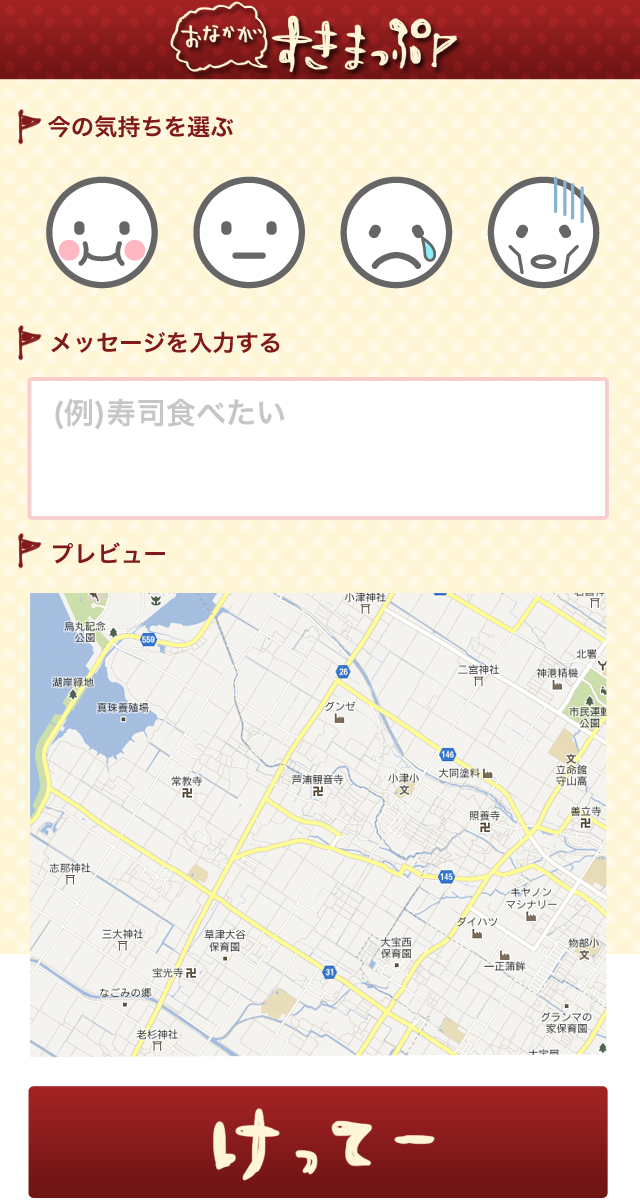
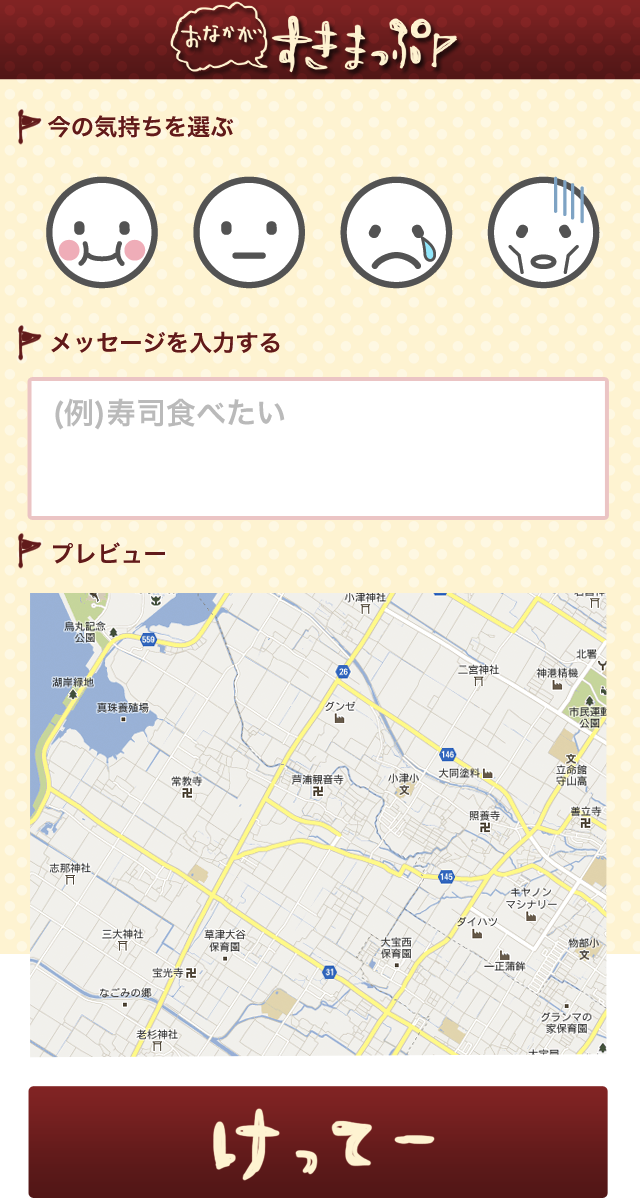
up

diff --git a/public/sukimap/css/common.less b/public/sukimap/css/common.less
@@ -2,14 +2,17 @@ html, body {
     height: 100%;
 }
 
-body {
-    font-family: sans-serif;
-    margin:0;
-    padding:0;
-}
-
 /* 共通 */
 body {
+    font-family: sans-serif;
+    font-size: 12px;
+    margin:0;
+    padding:0;
+
+    a, a:visited {
+        color: #800;
+    }
+
     #wrapper {
         background: url('/sukimap/image/background.png');
     }
@@ -23,13 +26,17 @@ body {
         }
     }
 
+    img[src*="iws3.png"] {
+        display: none;
+    }
+
     #main-content {
         padding: 5px;
     }
 
     #map-preview {
-        width: 100%;
-        height: 300px;
+        width: 310px;
+        height: 310px;
         background: #787878;
     }
 
@@ -44,12 +51,39 @@ body {
             color: #666;
         }
     }
+
+    .message {
+        margin-top: 20px;
+        margin-bottom: 5px;
+        img.flag {
+            margin-right: 4px;
+            width: 12px;
+            height: 18px;
+            vertical-align: middle;
+        }
+    }
+
+    .image-button {
+        background: transparent;
+        border: none;
+        cursor: pointer;
+    }
 }
 
 /* 各ページ */
 
+body#main {
+    img.start-button {
+        width: 290px;
+        height: 56px;
+    }
+}
+
 body#edit-page {
     .faces {
+        margin-left: 20px;
+        margin-bottom: 20px;
+
         img {
             width: 65px;
             height: 70px;
@@ -61,5 +95,21 @@ body#edit-page {
         input:checked+img {
             background: pink;
         }
+    }
+
+    .message-container {
+        margin-bottom: 20px;
+        textarea {
+            margin: 4px;
+            width: 290px;
+            border: 2px solid pink;
+            border-radius: 2px;
+            padding: 5px;
+        }
+    }
+
+    img.ok-button {
+        width: 290px;
+        height: 56px;
     }
 }

diff --git a/public/sukimap/edit/index.html b/public/sukimap/edit/index.html
@@ -51,8 +51,9 @@
 
 
         <form id="edit-form">
-          <div>
-            いまのおなかへり度に近い表情を教えてください
+          <div class="message">
+            <img class="flag" src="/sukimap/image/icon.png"/>
+            今の気持ちを選ぶ
           </div>
 
           <div class="faces">
@@ -75,25 +76,38 @@
             </label>
           </div>
 
-          <div>
-            おなかへりメッセージを入力してください
+          <div class="message">
+            <img class="flag" src="/sukimap/image/icon.png"/>
+            メッセージを入力する
           </div>
 
           <div class="message-container">
-            <textarea name="comment" placeholder="例：おなかすいた"></textarea>
+            <textarea name="comment" placeholder="例：寿司食べたい"></textarea>
+          </div>
+
+          <div class="message">
+            <img class="flag" src="/sukimap/image/icon.png"/>
+            プレビュー
           </div>
 
           <div id="map-preview"></div>
 
+          <div class="message">
+            <img class="flag" src="/sukimap/image/icon.png"/>
+            すきまっぷを保存します
+          </div>
+
           <div class="submit-container">
-            <input type="submit" value="決定"/>
+            <button class="image-button" type="submit"><img class="ok-button" src="/sukimap/image/button_ok.png"/></button>
           </div>
         </form>
 
       </div>
 
       <div class="footer">
-        <a href="/">(C) 2012 東ダンスネットワーク</a>
+        <div id="copyright">
+          <a href="/">(C) 2012 東ダンスネットワーク</a>
+        </div>
       </div>
 
     </div>

diff --git a/public/sukimap/css/common.css b/public/sukimap/css/common.css
@@ -2,12 +2,17 @@ html,
 body {
   height: 100%;
 }
+/* 共通 */
 body {
   font-family: sans-serif;
+  font-size: 12px;
   margin: 0;
   padding: 0;
 }
-/* 共通 */
+body a,
+body a:visited {
+  color: #800;
+}
 body #wrapper {
   background: url('/sukimap/image/background.png');
 }
@@ -19,12 +24,15 @@ body #title img {
   width: 148px;
   height: 40px;
 }
+body img[src*="iws3.png"] {
+  display: none;
+}
 body #main-content {
   padding: 5px;
 }
 body #map-preview {
-  width: 100%;
-  height: 300px;
+  width: 310px;
+  height: 310px;
   background: #787878;
 }
 body .footer {
@@ -37,7 +45,30 @@ body .footer #copyright {
   text-align: center;
   color: #666;
 }
+body .message {
+  margin-top: 20px;
+  margin-bottom: 5px;
+}
+body .message img.flag {
+  margin-right: 4px;
+  width: 12px;
+  height: 18px;
+  vertical-align: middle;
+}
+body .image-button {
+  background: transparent;
+  border: none;
+  cursor: pointer;
+}
 /* 各ページ */
+body#main img.start-button {
+  width: 290px;
+  height: 56px;
+}
+body#edit-page .faces {
+  margin-left: 20px;
+  margin-bottom: 20px;
+}
 body#edit-page .faces img {
   width: 65px;
   height: 70px;
@@ -48,4 +79,18 @@ body#edit-page .faces input {
 }
 body#edit-page .faces input:checked + img {
   background: pink;
+}
+body#edit-page .message-container {
+  margin-bottom: 20px;
+}
+body#edit-page .message-container textarea {
+  margin: 4px;
+  width: 290px;
+  border: 2px solid pink;
+  border-radius: 2px;
+  padding: 5px;
+}
+body#edit-page img.ok-button {
+  width: 290px;
+  height: 56px;
 }

diff --git a/public/sukimap/index.html b/public/sukimap/index.html
@@ -31,7 +31,7 @@
     </script>
 
   </head>
-  <body data-page-id="main">
+  <body id="main" data-page-id="main">
 
     <div id="fb-root"></div>
     <script>(function(d, s, id) {
@@ -61,9 +61,7 @@
         </div>
 
         <div class="start">
-          <button class="start-button">
-            おなかすいた
-          </button>
+          <button class="image-button start-button"><img class="start-button" src="/sukimap/image/button_onaka.png"/></button>
         </div>
 
       </div>
